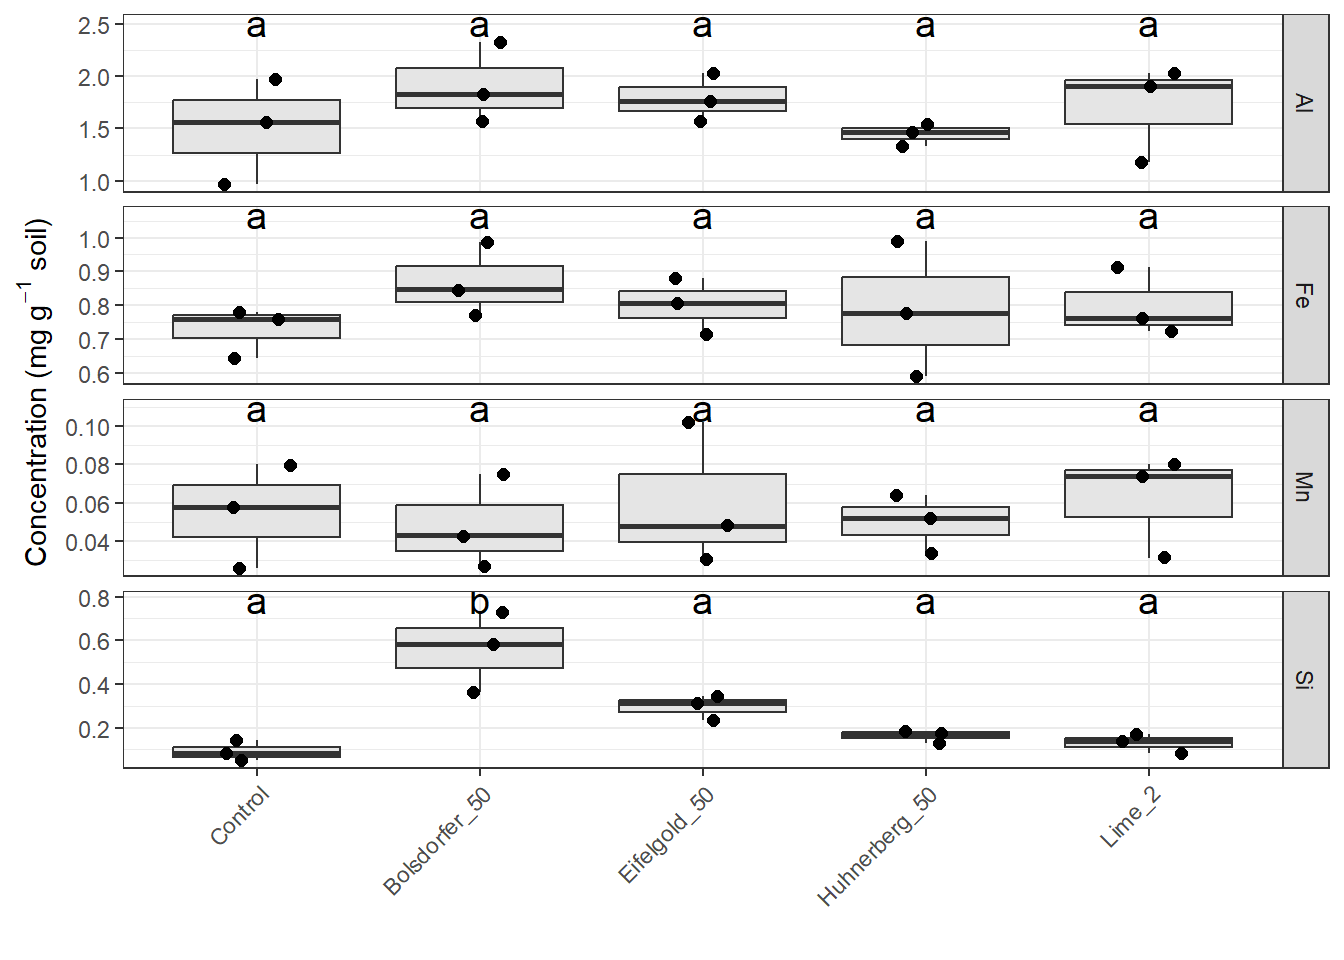
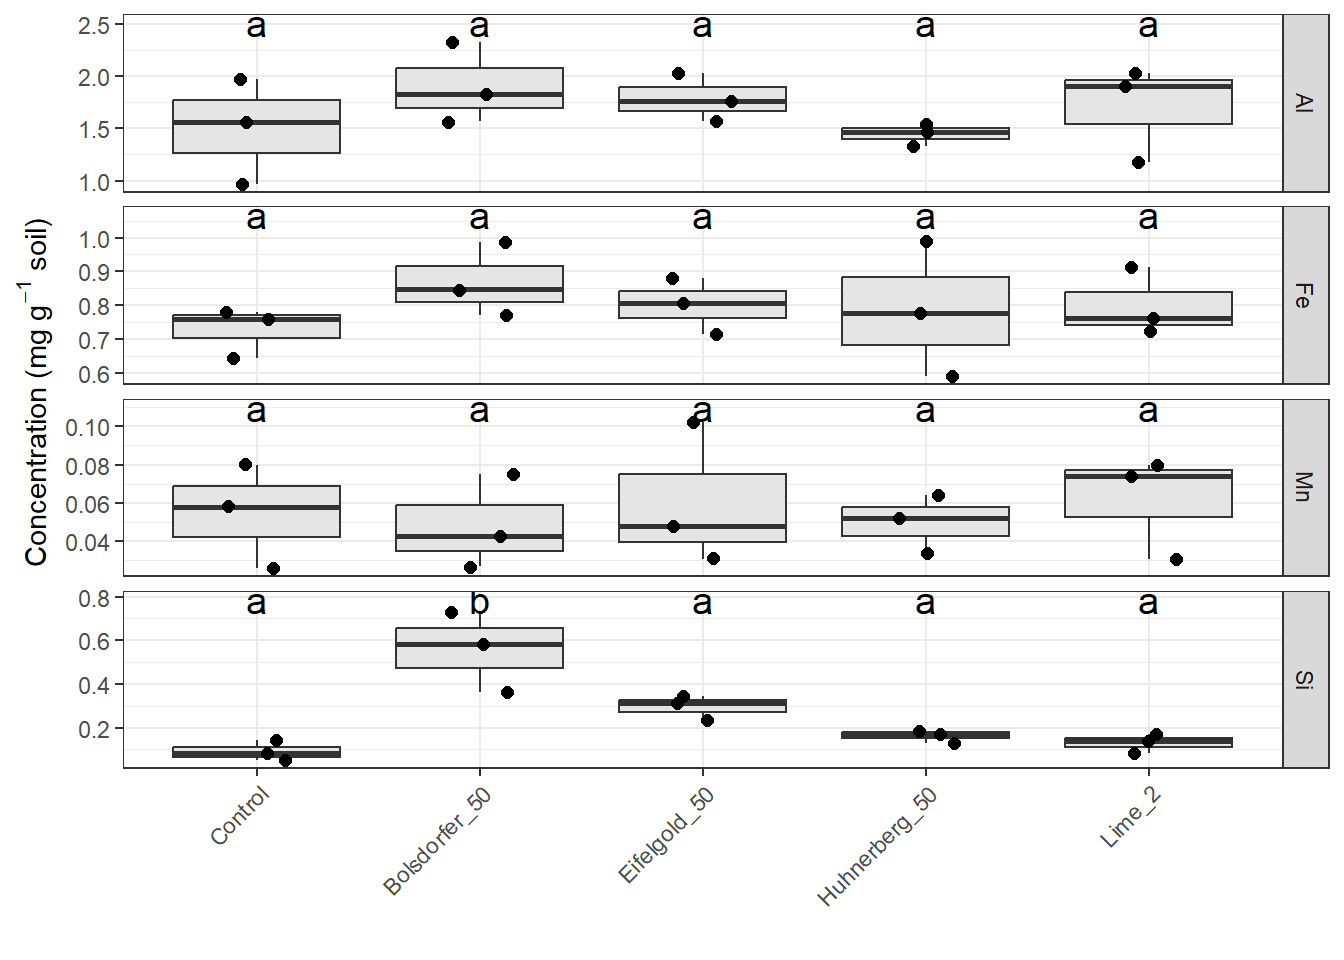
tried to recompile oxalate qmd

diff --git a/docs/crystalline_noncrystalline_metals.html b/docs/crystalline_noncrystalline_metals.html
@@ -6,7 +6,7 @@
 
 <meta name="viewport" content="width=device-width, initial-scale=1.0, user-scalable=yes">
 
-<meta name="dcterms.date" content="2026-08-06">
+<meta name="dcterms.date" content="2026-08-10">
 
 <title>crystalline_noncrystalline_metals</title>
 <style>
@@ -61,7 +61,7 @@ ul.task-list li input[type="checkbox"] {
     <div>
     <div class="quarto-title-meta-heading">Published</div>
     <div class="quarto-title-meta-contents">
-      <p class="date">August 6, 2026</p>
+      <p class="date">August 10, 2026</p>
     </div>
   </div>
   
